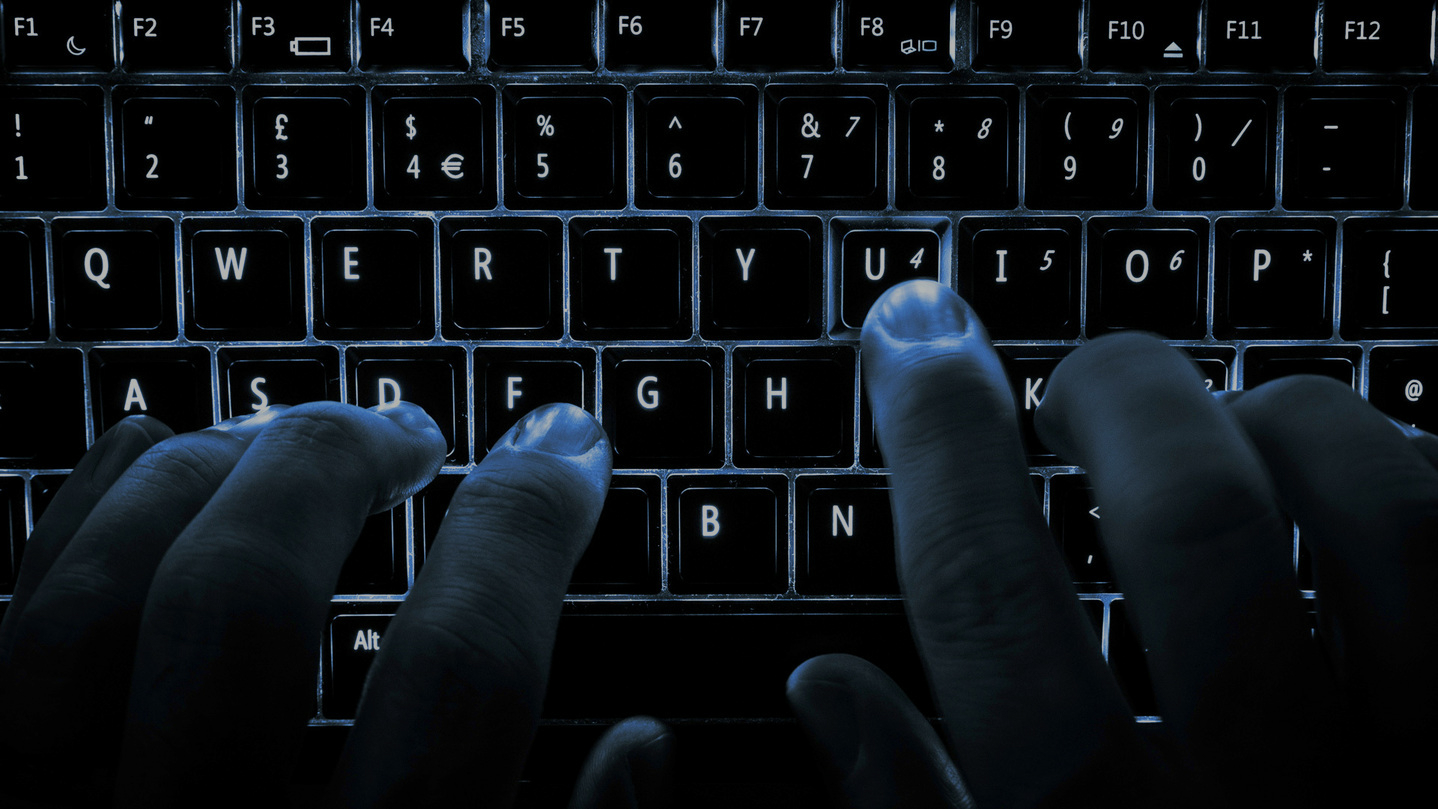
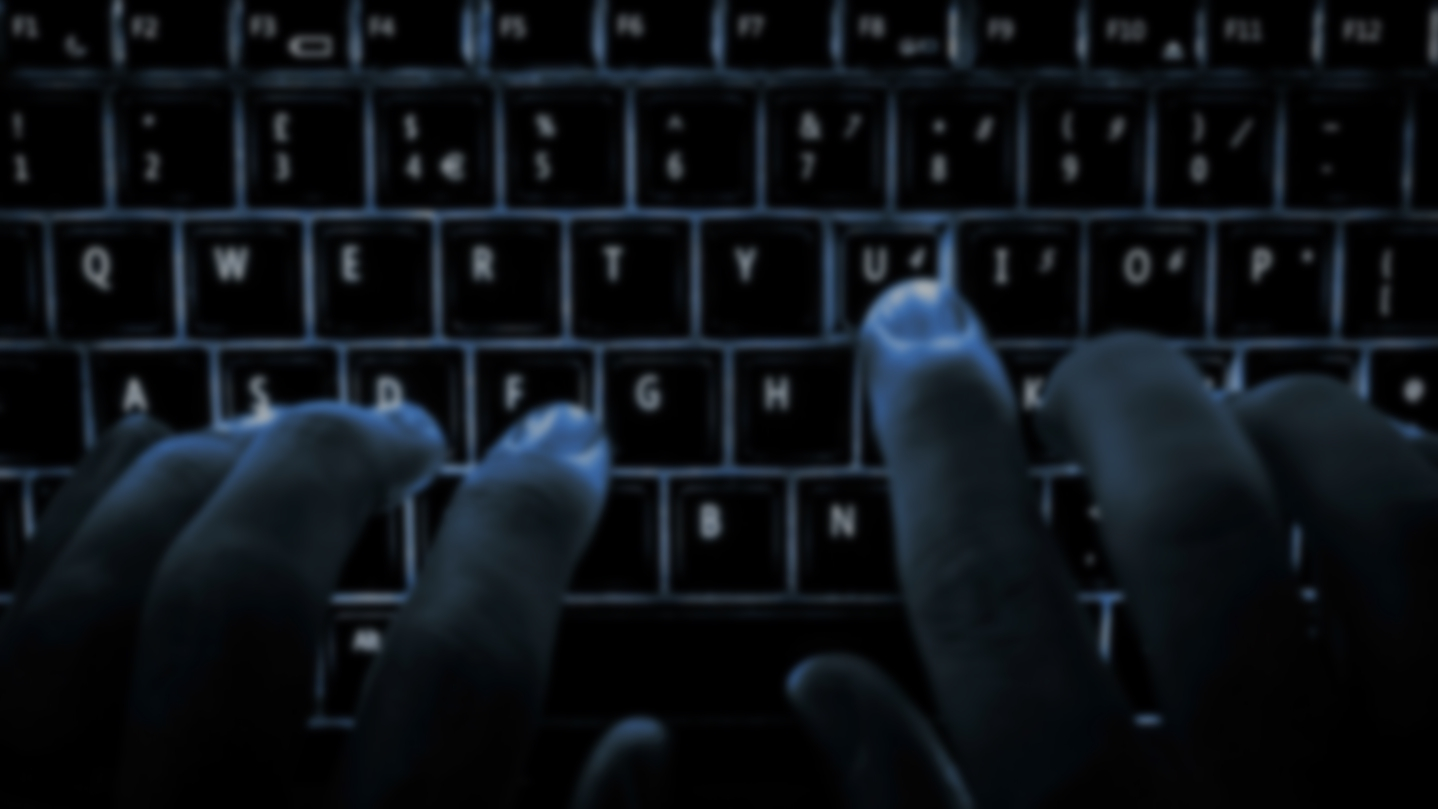
临时保存网卡相关博客

diff --git a/_posts/2019-10-07-weird-bug-4.md b/_posts/2019-10-07-weird-bug-4.md
@@ -1,0 +1,110 @@
+---
+layout:     post
+title:      "Weird bugs - 4"
+subtitle:   "奇怪的 bug 系列 4 -- Linux 网卡混杂模式"
+date:       2019-10-07 00:15:00
+author:     "Di Chen"
+header-img: "img/in-post/weird-bug-1/weird-bug-1-bg.jpg"
+tags:
+    - Tech
+    - Bug
+    - Linux
+---
+
+## 前言
+
+这次记录的 bug 是主要是涉及网络知识比较多，排查中主要用到了 tcpdump 以及一些运气。
+
+---
+
+## 问题以及排查过程
+
+### 问题表象
+
+在一台 vmware 部署的 Redhat 系统上安装 docker，使用的是阿里云的镜像源，安装命令如下
+
+```
+yum remove  docker \
+            docker-client \
+            docker-client-latest \
+            docker-common \
+            docker-latest \
+            docker-latest-logrotate \
+            docker-logrotate \
+            docker-selinux \
+            docker-engine-selinux \
+            docker-engine
+ 
+ 
+# Set up repository
+sudo yum install -y yum-utils device-mapper-persistent-data lvm2
+  
+# Use Aliyun Docker
+sudo yum-config-manager --add-repo http://mirrors.aliyun.com/docker-ce/linux/centos/docker-ce.repo
+ 
+ 
+# install the latest version docker
+yum install docker-ce
+```
+
+在安装完成后发现 docker 可以正常启动，未报错，但是启动后对应的 http 端口无法连通，具体表现为错误 "curl: (56) Recv Failure: Connection reset by peer."
+
+### 问题排查和解决
+
+#### 定位错误组件
+首先尝试进行横向分段排查，定位具体是哪个组件为正常运行。
+
+docker 所在的主机 ip 为 10.0.10.1
+docker 建立的 NAT 网段为 172.17.0.1/16
+启动的 docker 对外暴露的端口为 9200，启动命令类似：`docker run -p 9200:9200 mydocker`
+启动后的 docker 在 docker 的网段内 ip 为 172.17.0.2
+
+首先尝试在宿主主机访问对应端口： `$ curl 10.0.10.1:9200`，报 "No route to host" 错误。
+同时尝试使用 telnet 连接该端口 `$ telnet 10.0.10.1:9200`，同样报 "No route to host" 错误。我们知道 tcp 连接的第一步是三次握手建立连接，报 "No route to host" 说明连握手都无法完成，问题应该出在网络的第4层以下。
+
+在宿主主机上尝试 ping 对应的 docker NAT 网关内的 ip：`$ping 172.17.0.2`，发现ping不通。尝试反向ping，从 docker 内 ping 172.17.0.1 发现也无法 ping 通，说明 docker 的网桥可能未正常工作。
+
+docker 的网络包是通过 iptables 进行配置转发的，所以首先排查宿主主机上的 iptables 配置是否正常。
+`$ iptables --list` 查看所有 iptables 规则，iptables 内 DOCKER-USER 和 DOCKER 是检验所有发到 docker 容器的规则，这两部分在主机的 iptables 配置里都是空的，或 all anywhere，所以理论上不会对 tcp 包进行拦截。这部分没发现有异常。
+
+接下来尝试使用 tcpdump 抓流量包，查看在链路的哪个部分无法连通。还是使用分段排查的方式，先排查 docker0 网卡的流量包，看是否包含 telnet 的握手请求。使用 `$tcpdump -w docker.pcap -i docker0` 在一个 ssh 窗口中进行抓包，然后使用 `$telnet 172.17.0.1 9200` 发起 tcp 连接。此时发现了一个奇怪的现象，在 tcpdump 运行的时候，所有网络请求都能通了！ telnet 可以正常连接，curl 命令也能返回预期的信息。关闭 tcpdump 后，又变回了原来无法连通的情况。
+
+#### 解决方法
+
+根据之前发现的情况，Google 搜索 “docker tcpdump 抓包后通了”，发现了一篇类似情况的排查博客：[从混杂模式开始说起](https://ieevee.com/tech/2016/11/24/promisc.html)。
+
+> 但前几天BJ机房掉电，重启后发现宿主机无法登陆，网络不通。ipmi登陆上去，检查team0状态、br0状态都正常，tcpdump抓包发现，报文能够到达team0的子接口(eno0），但无法送到br0，因此ping宿主机不通。
+> 
+> 偶然发现，从外面ping宿主机网络，如果在team0口、eno0口都执行tcpdump，宿主机、docker容器，网络均可达。
+
+从现象上看，他遇到的问题和我的表现是一样的。在该博客中也提到了该问题的根源：物理网卡进入了混杂模式，但是子接口并没有进入，导致子接口无法获取对应的网络包。我在问题宿主主机上做了验证：
+
+查看系统日志，并计算进入混杂模式但是未退出的网卡：
+```
+$ cat /var/log/messages | grep promisc | grep enter | cut -d " " -f 8 | sort | uniq -c | sort -n > card_list_enter
+$ cat /var/log/messages | grep promisc | grep enter | cut -d " " -f 8 | sort | uniq -c | sort -n > card_list_left
+$ diff card_list_enter card_list_left
+...
+```
+
+上面的 shell 先统计了所有网卡进入混杂模式的次数，然后统计了所有网卡退出混杂模式的次数，再 diff 找到进入了混杂模式，但是未退出的网卡。然后再去 `$cat /sys/class/net/docker0/flags`, 看具体的标志位是否打开，发现除了 docker0 网卡之外，其他有若干网卡打开了混杂模式。而同时，查看 `/var/log/messages` 也发现每次 tcpdump 的时候，docker0 网卡都会进入混杂模式。
+
+尝试使用命令 `$ifconfig docker0 PROMISC` 手动打开 docker0 的混杂模式后，docker 就能正常运行了。
+
+### 原理
+
+#### 混杂模式是什么
+
+#### 为什么tcpdump需要打开对应网卡的混杂模式
+
+#### 为什么不混杂模式无法连接主机
+
+### 推荐阅读
+
+1. [Docker and iptables](https://docs.docker.com/network/iptables/)
+
+2. [从混杂模式开始说起](https://ieevee.com/tech/2016/11/24/promisc.html)
+
+---
+
+如果你看到这里，一定是真爱！欢迎看看我的其他 [blog](http://chendi.me/)。O(∩_∩)O

diff --git a/README.md b/README.md
@@ -21,6 +21,8 @@ Use online picture editing tool [pixlr](https://pixlr.com/editor/)
 6. Click the picture.
 7. Download the picture by "File" => "Save".
 
+8. Upload to https://www.anooc.com/ts/gs to apply gaussian distortion.
+
 Now your background picture won't interfere with your Title.
 
 #### How to see change locally
